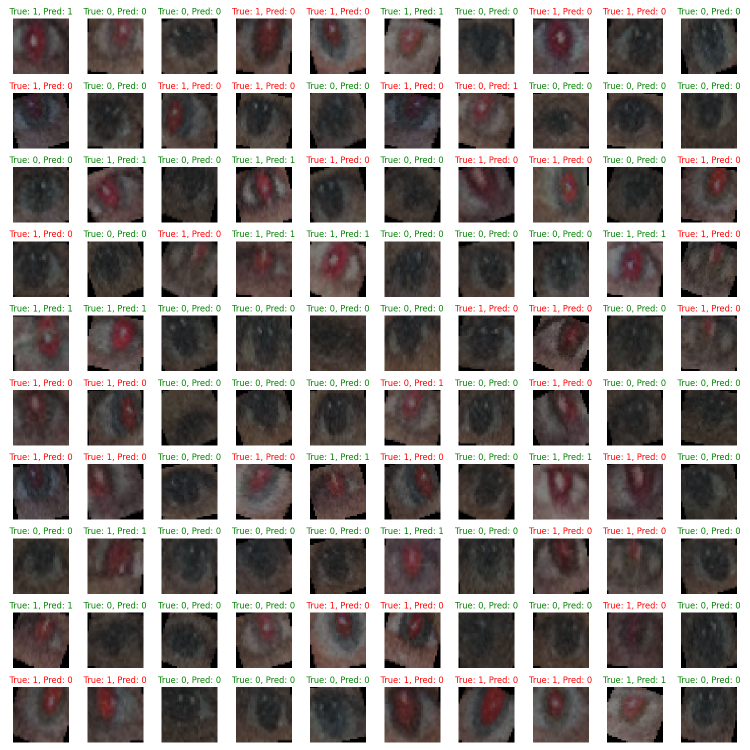
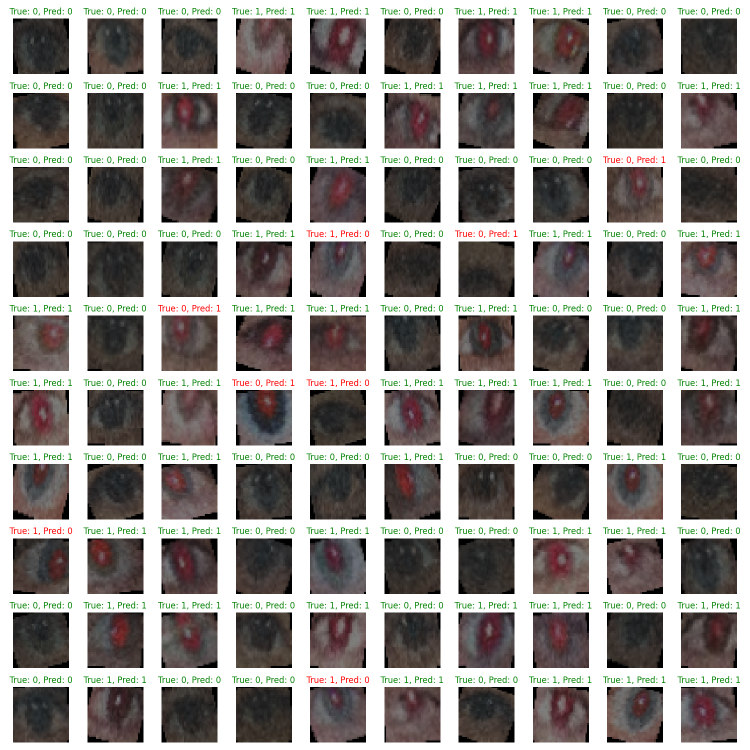
Fix LR scheduler and update readme

diff --git a/train.py b/train.py
@@ -49,7 +49,7 @@ class GradualWarmupScheduler(_LRScheduler):
         get_lr: Calculates the LR for the current epoch.
         step: Updates the LR at the end of each epoch.
     """
-    def __init__(self, optimizer: torch.optim.Adam, multiplier: int, total_epoch: int, after_scheduler=None):
+    def __init__(self, optimizer: torch.optim.Optimizer, multiplier: float, total_epoch: int, after_scheduler=None):
         self.multiplier = multiplier
         self.total_epoch = total_epoch
         self.after_scheduler = after_scheduler
@@ -63,17 +63,14 @@ class GradualWarmupScheduler(_LRScheduler):
         Returns:
             list: List of learning rates for each parameter group.
         """
-        if self.last_epoch >= self.total_epoch:
-            if self.after_scheduler:
-                if not self.finished:
-                    self.after_scheduler.base_lrs = [base_lr * self.multiplier
-                                                     for base_lr in self.base_lrs]
-                    self.finished = True
-                return self.after_scheduler.get_last_lr()
-            return [base_lr * self.multiplier for base_lr in self.base_lrs]
-        else:
-            return ([base_lr * ((self.multiplier - 1) * self.last_epoch /
-                                self.total_epoch + 1) for base_lr in self.base_lrs])
+        if self.last_epoch < self.total_epoch:
+            return [base_lr * (1 + self.last_epoch / self.total_epoch * (self.multiplier - 1)) for base_lr in self.base_lrs]
+        if self.after_scheduler:
+            if not self.finished:
+                self.after_scheduler.base_lrs = [base_lr * self.multiplier for base_lr in self.base_lrs]
+                self.finished = True
+            return self.after_scheduler.get_last_lr()
+        return [base_lr * self.multiplier for base_lr in self.base_lrs]
 
     def step(self, epoch=None):
         """
@@ -89,13 +86,13 @@ class GradualWarmupScheduler(_LRScheduler):
                 self.after_scheduler.step(epoch - self.total_epoch)
         else:
             super(GradualWarmupScheduler, self).step(epoch)
+        print(f"Learning rate after step {self.last_epoch}: {self.optimizer.param_groups[0]['lr']}")  # Debug print
 
 def train(model: torch.nn.Module,
           device: torch.device,
           train_loader: DataLoader,
           criterion: torch.nn.CrossEntropyLoss,
           optimizer: torch.optim.Adam,
-          scheduler: GradualWarmupScheduler,
           epoch: int,
           total_epochs: int):
     """
@@ -123,7 +120,6 @@ def train(model: torch.nn.Module,
         loss = criterion(outputs, labels.view(-1))
         loss.backward()
         optimizer.step()
-        scheduler.step()
 
         if i % 10 == 0:
             acc = calculate_accuracy(outputs, labels)
@@ -229,17 +225,15 @@ if __name__ == '__main__':
     print('Setting up the model...')
     cnn = CNN().to(device)
     criterion = torch.nn.CrossEntropyLoss()
-    optimizer = torch.optim.Adam(params=list(cnn.parameters()), lr=setup.LR)
 
     print('Setup warmup scheduler...')
     warmup_epochs = 5
     target_lr = setup.LR
-    warmup_lr = target_lr * 0.1
-    after_scheduler = torch.optim.lr_scheduler.StepLR(optimizer, step_size=10, gamma=0.1)
+    warmup_lr = target_lr*0.1
+    optimizer = torch.optim.Adam(params=list(cnn.parameters()), lr=warmup_lr)
     scheduler = GradualWarmupScheduler(optimizer,
                                        multiplier=target_lr / warmup_lr,
-                                       total_epoch=warmup_epochs,
-                                       after_scheduler=after_scheduler)
+                                       total_epoch=warmup_epochs)
 
     print("Beginning training...")
     training_losses, val_losses = [], []
@@ -249,7 +243,7 @@ if __name__ == '__main__':
         current_lr = optimizer.param_groups[0]['lr']
         print(f'Epoch {epoch+1}/{setup.EPOCHS} started. Current learning rate: {current_lr:.6f}')
 
-        avg_train_loss = train(cnn, device, train_loader, criterion, optimizer, scheduler, epoch, setup.EPOCHS)
+        avg_train_loss = train(cnn, device, train_loader, criterion, optimizer, epoch, setup.EPOCHS)
         avg_val_loss, val_images = evaluate(cnn, device, val_loader, criterion, epoch, setup.EPOCHS)
 
         training_losses.append(avg_train_loss)
@@ -260,6 +254,8 @@ if __name__ == '__main__':
 
         torch.cuda.empty_cache()
         gc.collect()
+
+        scheduler.step()
 
         # save model after every epoch
         torch.save(cnn.state_dict(), f"{checkpoints_dir}/CNN-B{setup.BATCH}-LR-{setup.LR}-E{epoch+1}.pt")

diff --git a/setup.py b/setup.py
@@ -19,5 +19,5 @@ class Setup(object):
         self.whole_size = (32,32)
         self.BATCH = 8
         self.DEVICE = torch.device("cuda:0")
-        self.LR = 0.001
+        self.LR = 0.01
         self.EPOCHS = 30

diff --git a/README.md b/README.md
@@ -61,6 +61,17 @@ To start training the model, run the `train.py` script. The script:
 
 The model weights are saved in `/checkpoints` and the validation images with true and predicted labels are saved at the end of training in `/training_output_images`.
 
+After training the model with learning rate of 0.01 and 30 epochs:
+
 ![Predicted validation images](readme_images/predicted_validation_images.png)
 
 We implemented [learning rate gradual warmup](https://arxiv.org/pdf/1706.02677). Gradual warmup is a technique used to improve the stability of the training process by slowly increasing the learning rate from a small value to a target value over a specified number of epochs. In this project, the `GradualWarmupScheduler` class is implemented to handle this warmup phase. The learning rate is gradually increased to the target value over the first few epochs, and then the normal learning rate schedule resumes.
+
+For target LR of 0.01 the LR during first 5 epochs with warmup LR of 0.001 is as follows:
+
+- epoch 1: 0.001 (warmup learning rate)
+- epoch 2: 0.0028
+- epoch 3: 0.0046
+- epoch 4: 0.0064
+- epoch 5: 0.0082
+- epoch 6: 0.01 (target learning rate)
